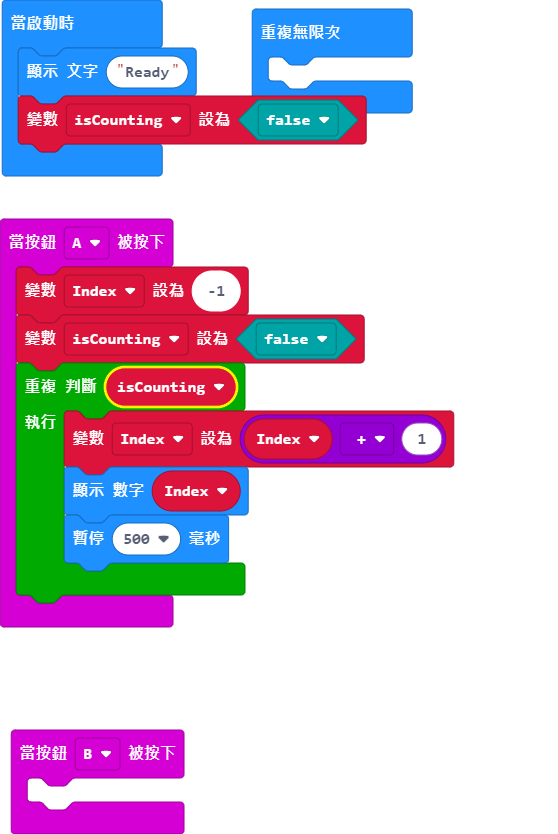
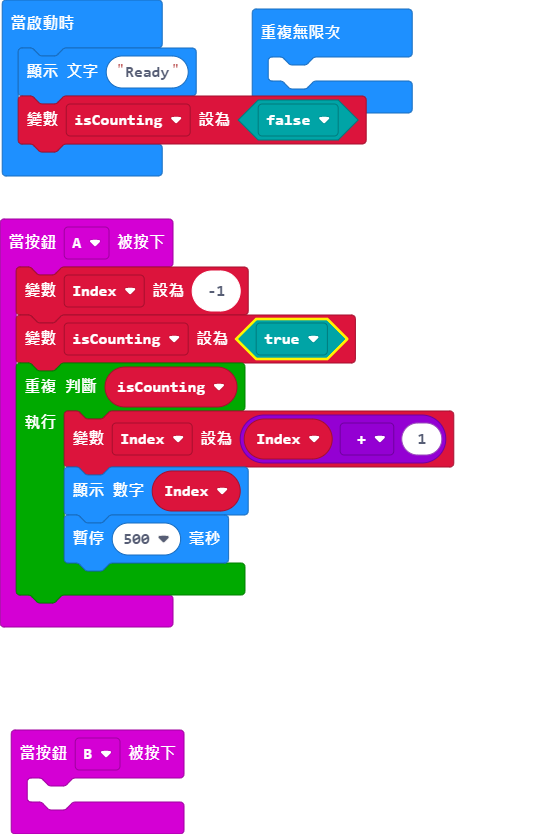
更新 main.blocks, main.ts

Changed region(s): [[0.4265, 0.3741, 0.6703, 0.4365], [0.1828, 0.4365, 0.4265, 0.4988]]

diff --git a/main.ts b/main.ts
@@ -1,6 +1,6 @@
 input.onButtonPressed(Button.A, function () {
     Index = -1
-    isCounting = false
+    isCounting = true
     while (isCounting) {
         Index = Index + 1
         basic.showNumber(Index)
